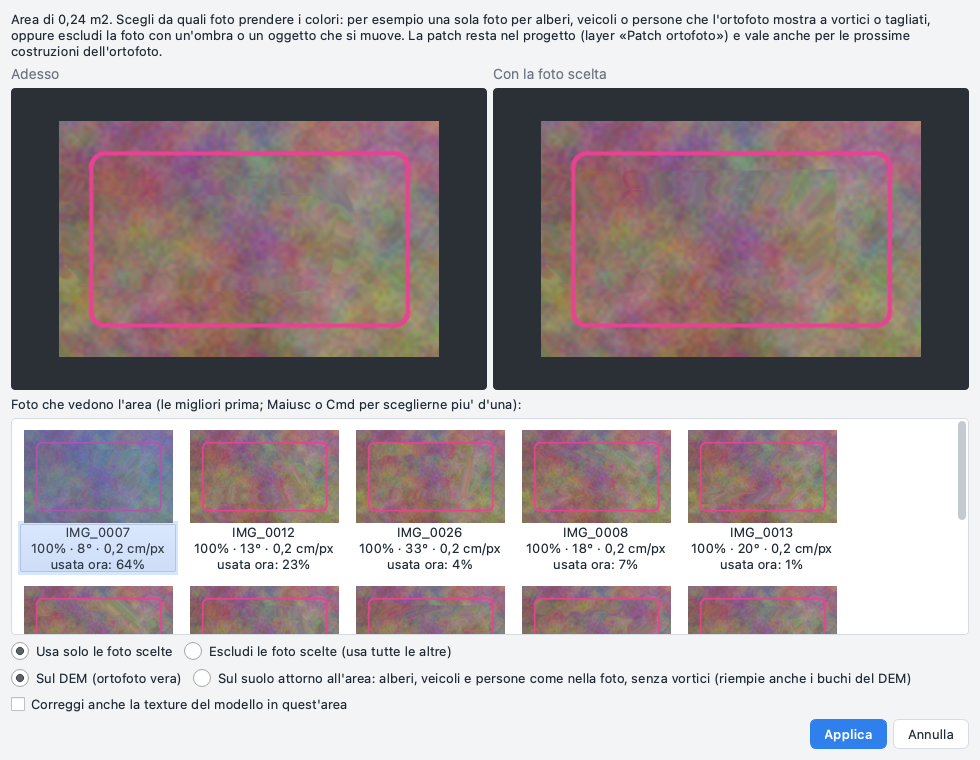
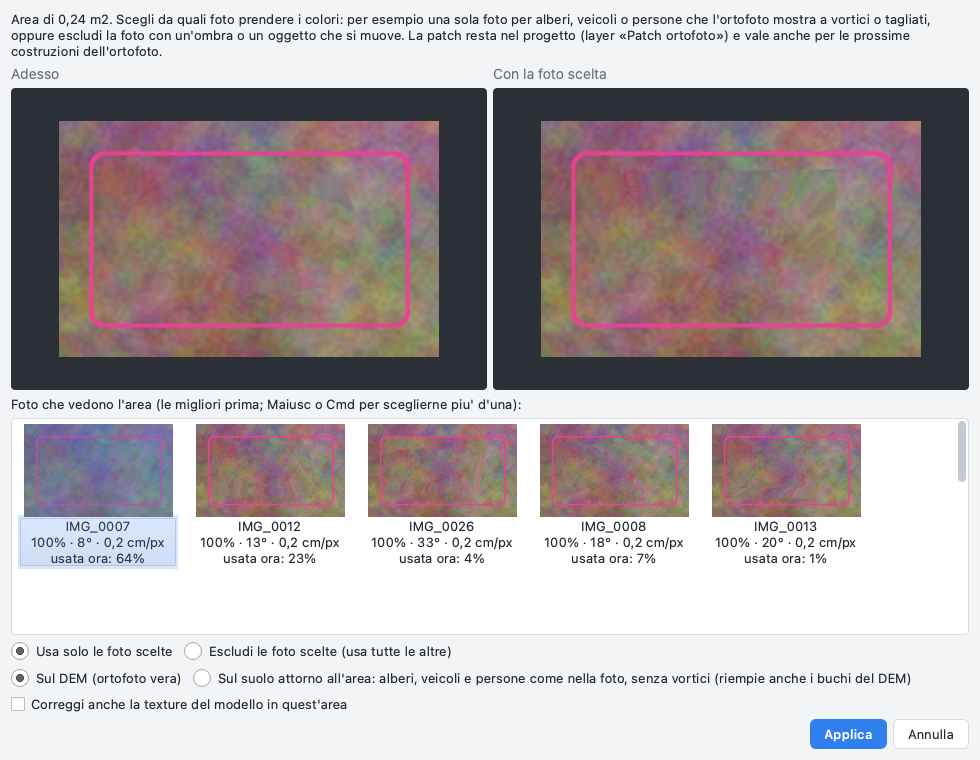
fix(gui): long drone photo names in the patch dialog and layer
DJI names widened the cells of the photo list to three a row and cut its text: fixed cells, names shortened to their end (the full name in the tooltip), every line shown.

Changed region(s): [[0.0, 0.5447, 0.8878, 0.8474], [0.9796, 0.6355, 1.0, 0.6961]]

diff --git a/src/pyarchinit_photogrammetry/gui/dialogs.py b/src/pyarchinit_photogrammetry/gui/dialogs.py
@@ -606,6 +606,12 @@ class ImageDialog(QDialog):
         lay.addWidget(bb)
 
 
+def short_label(label: str, size: int = 20) -> str:
+    """A photo name short enough for a list or a map label (drones write long ones): the end,
+    where the number of the photo is."""
+    return label if len(label) <= size else "..." + label[-(size - 3):]
+
+
 class PatchDialog(QDialog):
     """Choose the photos of an area: a patch of the orthomosaic (``kind="ortho"``) or faces of
     the textured model (``kind="faces"``). The area as it is now beside the area seen from the
@@ -661,6 +667,8 @@ class PatchDialog(QDialog):
         self.list = QListWidget()
         self.list.setViewMode(QListWidget.ViewMode.IconMode)
         self.list.setIconSize(QSize(150, 150))
+        self.list.setGridSize(QSize(172, 246))  # long photo names must not widen the cells
+        self.list.setTextElideMode(Qt.TextElideMode.ElideNone)
         self.list.setResizeMode(QListWidget.ResizeMode.Adjust)
         self.list.setMovement(QListWidget.Movement.Static)
         self.list.setSpacing(6)
@@ -668,7 +676,7 @@ class PatchDialog(QDialog):
         self.list.setSelectionMode(QAbstractItemView.SelectionMode.ExtendedSelection)
         for c in candidates:
             gsd = c.get("gsd") or 0.0
-            text = (f"{c['label']}\n{_it(100 * c['coverage'])}% · {_it(c['angle'])}° · "
+            text = (f"{short_label(c['label'])}\n{_it(100 * c['coverage'])}% · {_it(c['angle'])}° · "
                     f"{_it(100 * gsd, 1)} cm/px")
             if c.get("used"):
                 text += f"\nusata ora: {_it(100 * c['used'])}%"

diff --git a/src/pyarchinit_photogrammetry/gui/main_window.py b/src/pyarchinit_photogrammetry/gui/main_window.py
@@ -22,7 +22,7 @@ from . import theme
 from .dialogs import (QUALITY, ConnectDialog, ErrorDialog, Field, GradualSelectionDialog, IfcPreviewDialog,
                       ImageDialog, ParamDialog, PatchDialog,
                       PublishDialog, QuotaDialog, SiteChoiceDialog, SiteDialog, TableDialog, UnitDialog, UsFormDialog,
-                      choice, message)
+                      choice, message, short_label)
 from .icons import app_icon, icon
 from .image_views import US_COLORS, PhotoView, RasterView
 from .model_view import ModelView
@@ -3845,7 +3845,7 @@ class MainWindow(QMainWindow):
         from ..engine import patches as P
 
         for patch in P.patches(self.chunk):
-            names = ", ".join(patch["photos"][:2]) + (" ..." if len(patch["photos"]) > 2 else "")
+            names = ", ".join(short_label(n) for n in patch["photos"][:2]) + (" ..." if len(patch["photos"]) > 2 else "")
             label = f"{patch['id']}: " + (names if patch["mode"] == "assign" else f"senza {names}")
             ground = patch.get("surface") == "ground"
             v.add_polygon(patch["polygon"], label=label + (" (suolo)" if ground else ""), color="#e84393",
